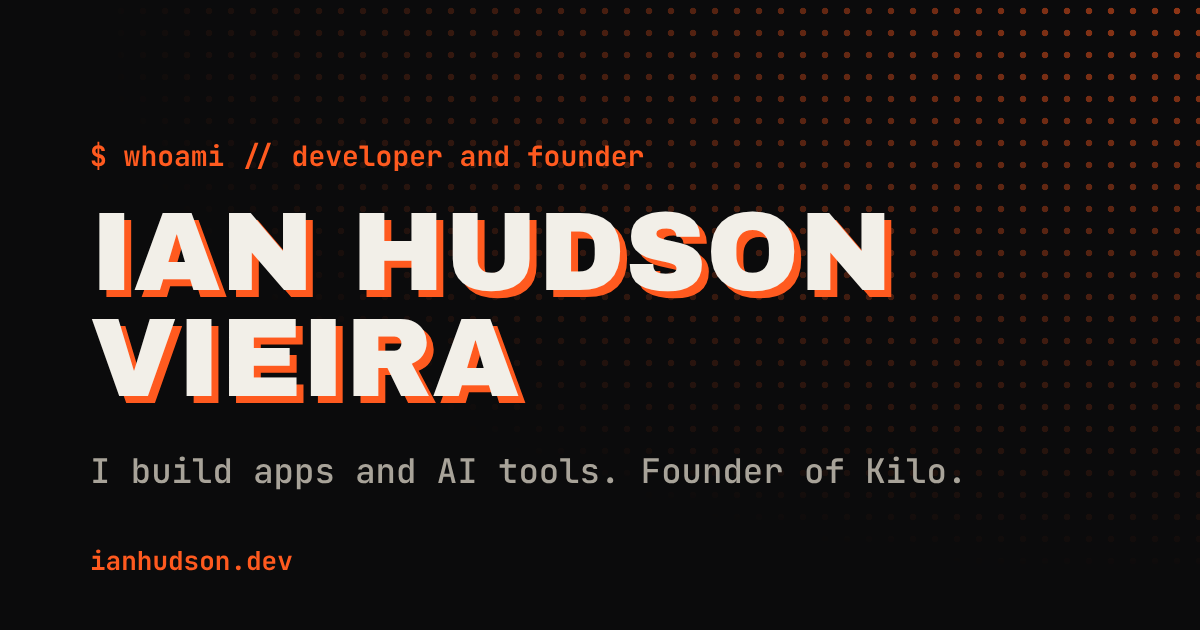
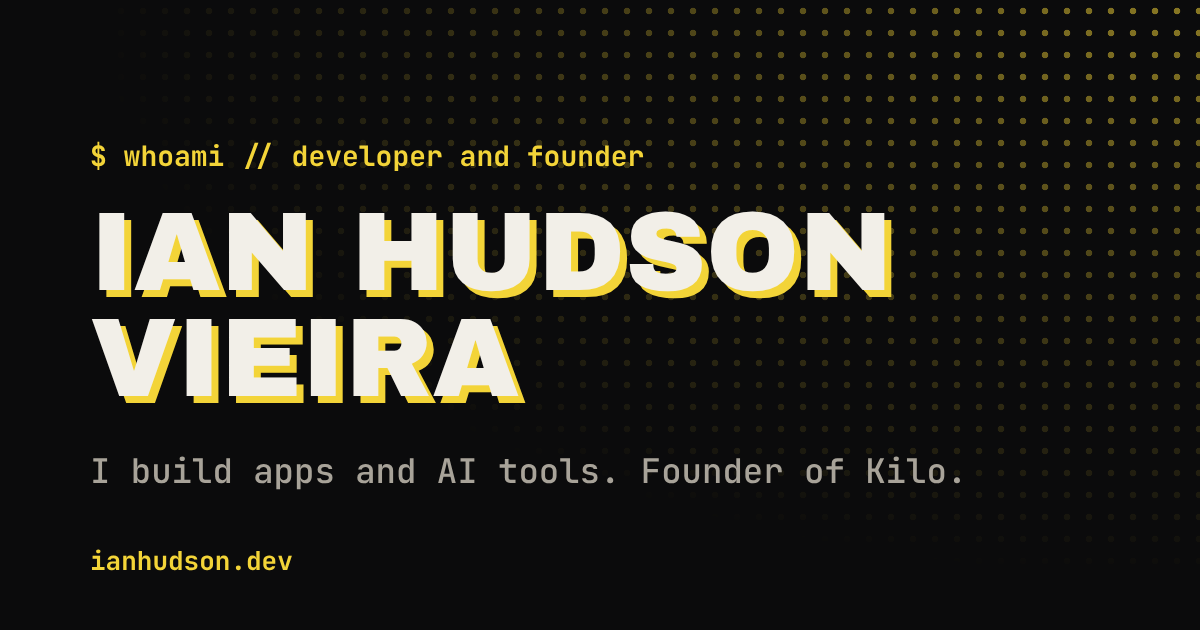
Swap accent to Kilo yellow (#f3d438)
Accent token, favicon, OG image, meal-plate swatches and canvas fallback now use
the yellow. Ink-on-yellow and yellow-on-bg both measure 13.4:1; swatches use
ink/yellow/grey because yellow vs off-white is only 1.23:1.

Claude-Session: https://claude.ai/code/session_01C3aRsZhQunPGrfWcyZt1sx

diff --git a/scripts/og.html b/scripts/og.html
@@ -3,11 +3,11 @@
 @font-face{font-family:'Archivo Black';src:url('../node_modules/@fontsource/archivo-black/files/archivo-black-latin-400-normal.woff2')}
 @font-face{font-family:'JetBrains Mono';font-weight:100 800;src:url('../node_modules/@fontsource-variable/jetbrains-mono/files/jetbrains-mono-latin-wght-normal.woff2')}
 body{margin:0;width:1200px;height:630px;background:#0b0b0c;color:#f2efe8;position:relative;overflow:hidden;display:flex;flex-direction:column;justify-content:center;padding:0 90px;box-sizing:border-box}
-.dots{position:absolute;inset:0;background-image:radial-gradient(circle at center,#ff5a1f 3px,transparent 3.6px);background-size:22px 22px;opacity:.55;-webkit-mask-image:radial-gradient(ellipse at 100% 0%,#000 0%,transparent 65%);mask-image:radial-gradient(ellipse at 100% 0%,#000 0%,transparent 65%)}
-.k{font:700 28px 'JetBrains Mono';color:#ff5a1f;position:relative}
-h1{font:400 112px/0.95 'Archivo Black';text-transform:uppercase;margin:26px 0 0;text-shadow:7px 7px 0 #ff5a1f;position:relative}
+.dots{position:absolute;inset:0;background-image:radial-gradient(circle at center,#f3d438 3px,transparent 3.6px);background-size:22px 22px;opacity:.55;-webkit-mask-image:radial-gradient(ellipse at 100% 0%,#000 0%,transparent 65%);mask-image:radial-gradient(ellipse at 100% 0%,#000 0%,transparent 65%)}
+.k{font:700 28px 'JetBrains Mono';color:#f3d438;position:relative}
+h1{font:400 112px/0.95 'Archivo Black';text-transform:uppercase;margin:26px 0 0;text-shadow:7px 7px 0 #f3d438;position:relative}
 .t{font:500 34px 'JetBrains Mono';color:#a8a399;margin-top:36px;position:relative}
-.u{position:absolute;left:90px;bottom:52px;font:700 26px 'JetBrains Mono';color:#ff5a1f}
+.u{position:absolute;left:90px;bottom:52px;font:700 26px 'JetBrains Mono';color:#f3d438}
 </style></head><body><div class="dots"></div>
 <div class="k">$ whoami // developer and founder</div>
 <h1>Ian Hudson<br>Vieira</h1>

diff --git a/src/scripts/motion.ts b/src/scripts/motion.ts
@@ -19,7 +19,7 @@ function start() {
   window.__zineReady = true;
 
   const css = getComputedStyle(root);
-  const accent = css.getPropertyValue('--accent').trim() || '#ff5a1f';
+  const accent = css.getPropertyValue('--accent').trim() || '#f3d438';
   const ink = css.getPropertyValue('--bg').trim() || '#0b0b0c';
 
   /* Smooth scroll. Lerp 0.09 gives the weighty glide both reference sites use. */

diff --git a/src/scripts/meal.ts b/src/scripts/meal.ts
@@ -18,7 +18,7 @@ if (root) {
   const bar = q('[data-bar]');
   const legend = q('[data-legend]');
   const req = q('[data-req]');
-  const swatch = ['var(--accent)', 'var(--fg)', '#7d7a73'];
+  const swatch = ['var(--bg)', 'var(--accent)', '#7d7a73'];
   const calm = matchMedia('(prefers-reduced-motion: reduce)').matches;
 
   const grams = () => {

diff --git a/src/styles/global.css b/src/styles/global.css
@@ -27,7 +27,7 @@
   --line: #2b2a28;
   --fg: #edebe7;
   --muted: #b3aea4;
-  --accent: #ff5a1f;
+  --accent: #f3d438;
   --on-accent: #0b0b0c;
   --shadow: 5px;
   --shadow-hover: 9px;

diff --git a/README.md b/README.md
@@ -1,6 +1,6 @@
 # ianhudson.dev
 
-Personal site of Ian Hudson Vieira. One static page built with [Astro](https://astro.build) and Tailwind CSS v4, hosted on Vercel. The look is "Terminal zine": dark, mono type, one orange accent, hard shadows and a halftone transition.
+Personal site of Ian Hudson Vieira. One static page built with [Astro](https://astro.build) and Tailwind CSS v4, hosted on Vercel. The look is "Terminal zine": dark, mono type, one yellow accent, hard shadows and a halftone transition.
 
 ## Run it
 
